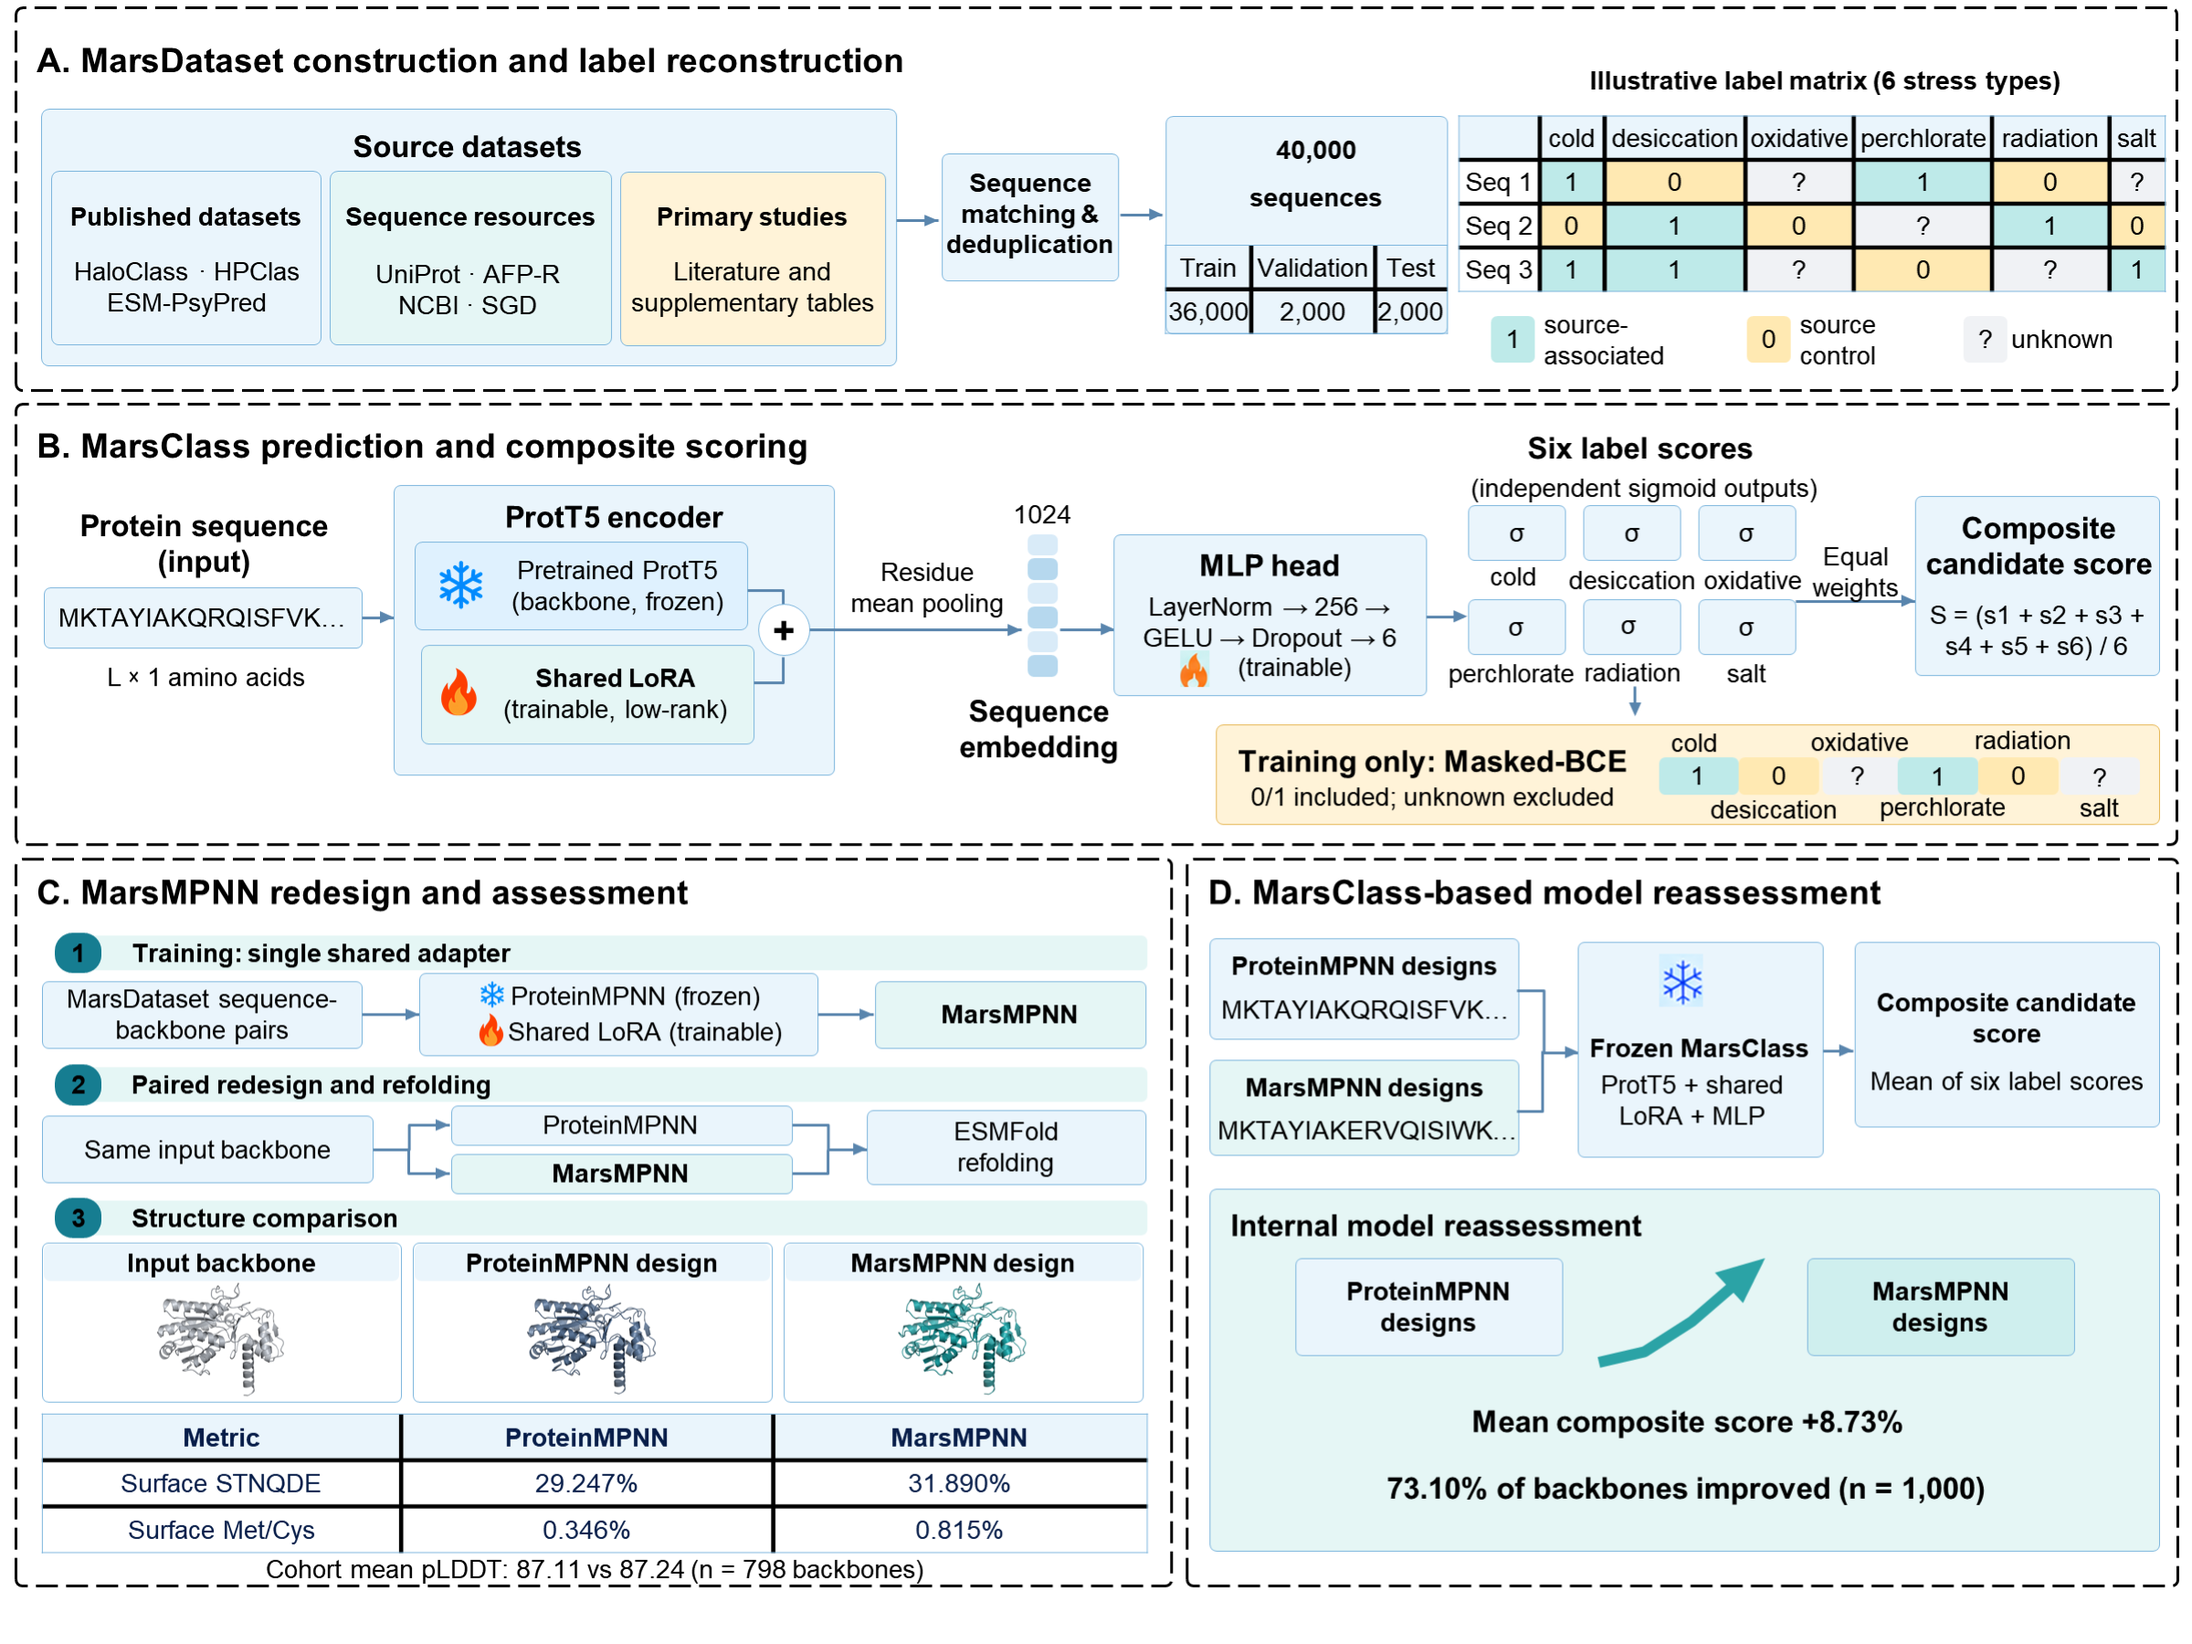
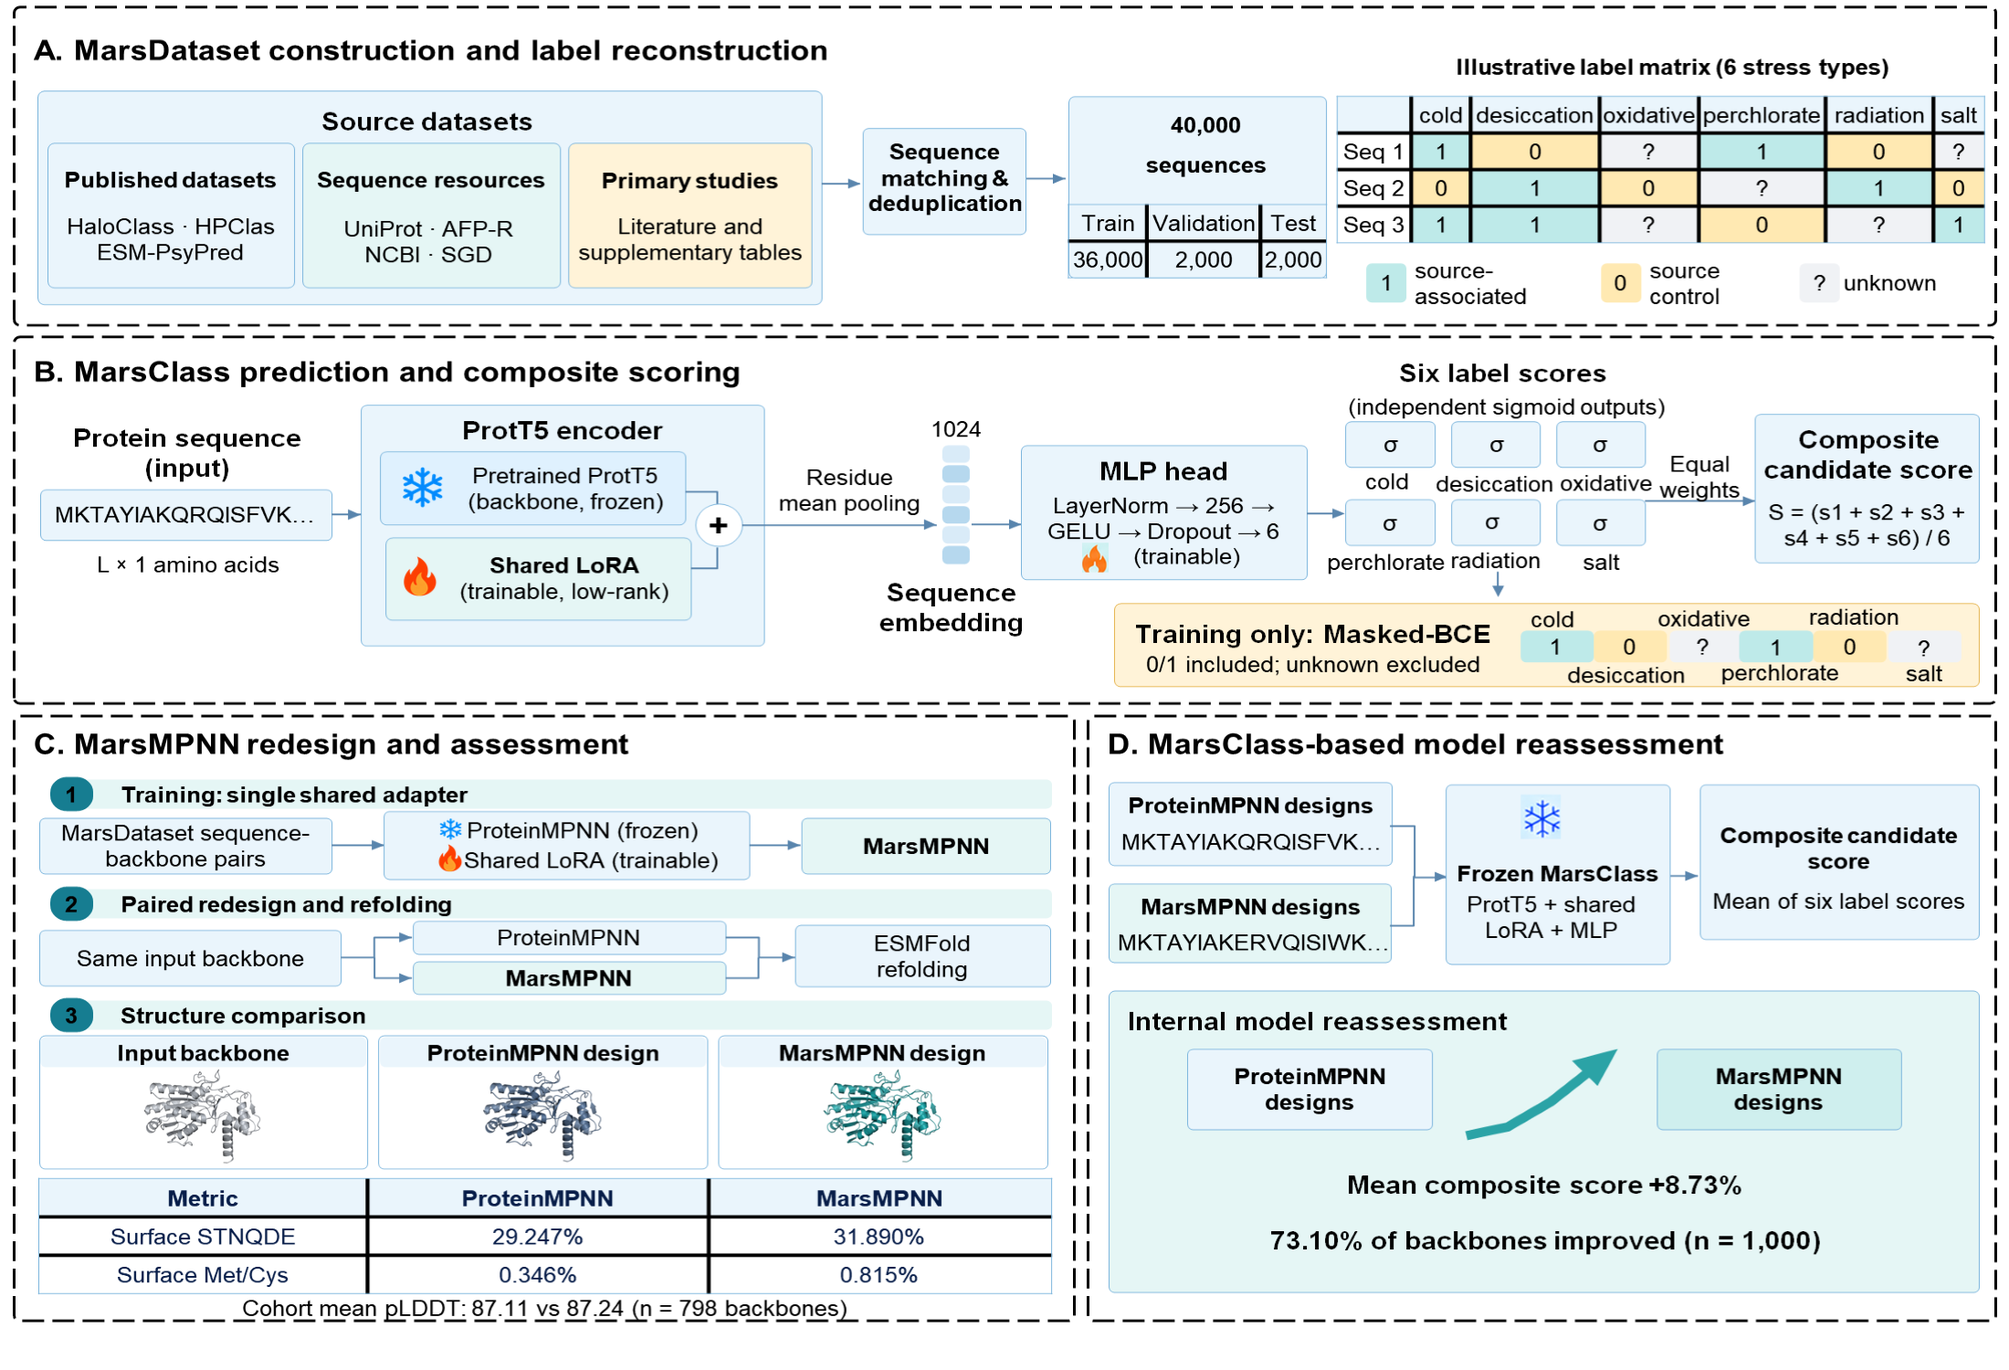
Update framework figure and source holdout documentation

diff --git a/docs/SOURCE_HOLDOUT_PROTOCOL.md b/docs/SOURCE_HOLDOUT_PROTOCOL.md
@@ -1,6 +1,6 @@
 # Scientific-source holdout protocol
 
-This protocol is an additional generalization test. It does not replace or modify the fixed 36k/2k/2k split.
+This protocol is an additional generalization test. It does not replace or modify the fixed 36k/2k/2k split. It is a derived evaluation protocol, not a claim that every registered source already has a completed model result.
 
 Create one derived fold at a time without editing the canonical split files:
 
@@ -11,6 +11,13 @@ python scripts/build_source_holdout.py \
 ```
 
 The command writes filtered training and validation tables, an expanded challenge table, row-level exclusion reasons, and a hash-bearing manifest. The original non-challenge test rows are not added to training or validation.
+
+The command is deliberately source-ID driven. A source ID must be present in
+`source_registry.csv` and in the sidecar's `scientific_source_ids` field; a
+missing source ID is an error rather than an empty fold. The script expands the
+held-out source to touching ID50 clusters and relationship components before
+writing the derived fold, so source leakage is handled by the same exclusion
+unit used in the manuscript.
 
 ## Unit of exclusion
 
@@ -28,7 +35,7 @@ Retrain the selected shared ProtT5-LoRA + Masked-BCE configuration from the same
 - Bootstrap by relationship component or ID50 cluster, not by repeated label cells.
 - Compare with the length/amino-acid-composition baseline and homology transfer.
 
-## Feasible first folds
+## Feasible first folds and current status
 
 - cold: `ISS_CO_ESMPSYPRED` gives 309 positives, 1,615 zeros, and 12 unknown cells after group expansion; `ISS_CO_AAC` gives 243/1,149/6. Both support binary source-holdout evaluation.
 - desiccation: `DE003` gives 2,492 positives and no observed zero. Use positive recall or retrieval, not AUROC/MCC.
@@ -38,4 +45,8 @@ Retrain the selected shared ProtT5-LoRA + Masked-BCE configuration from the same
 
 Perchlorate currently lacks a sufficiently independent second large source; a source-holdout result for that task should be marked not evaluable until another source is added.
 
-The counts above were generated from the frozen 40,000-row release with `--report-only`; see `source_holdout_candidate_counts.csv`. They are fold sizes, not completed model results.
+The counts above were generated from the frozen 40,000-row release with
+`--report-only`; see `source_holdout_candidate_counts.csv`. They are fold sizes,
+not completed model results. Completed model metrics and one-class limitations
+are tracked separately in `SOURCE_HOLDOUT_RESULTS_STATUS.md` so that a
+candidate-count report cannot be mistaken for a trained holdout result.

diff --git a/docs/SOURCE_HOLDOUT_RESULTS_STATUS.md b/docs/SOURCE_HOLDOUT_RESULTS_STATUS.md
@@ -1,0 +1,39 @@
+# Source-holdout evaluation status
+
+This file separates the reproducible holdout protocol from completed results.
+The canonical 36,000/2,000/2,000 split is unchanged. Every derived source
+fold must expand exclusions to registered ID50 clusters and relationship
+components before model fitting.
+
+## Completed folds reported in MarsPro
+
+The manuscript reports four predeclared, single-seed source folds:
+
+| Fold | Task | Known-label sequences | AP | Prevalence | AUROC | Interpretation |
+|---|---|---:|---:|---:|---:|---|
+| AAC-cold | cold | 1,392 | 0.327 | 0.175 | 0.691 | ranking above prevalence; threshold transfer is limited |
+| ESM-PsyPred-cold | cold | 1,924 | 0.198 | 0.161 | 0.657 | ranking above prevalence; threshold transfer is limited |
+| AOP2020-oxidative | oxidative | 1,566 | 0.226 | 0.108 | 0.736 | ranking above prevalence; threshold transfer is limited |
+| HaloClass-salt | salt | 4,095 | 0.903 | 0.437 | 0.946 | ranking above prevalence; threshold transfer is limited |
+
+These values are model results, not report-only candidate counts. Unknown
+sequence-task cells are excluded from the metrics, and bootstrap units are
+relationship components or ID50 clusters rather than repeated label cells.
+
+## Not completed as binary source folds
+
+- Desiccation sources `DE003` and radiation source `RA006` have no observed
+  source-comparator zero in the current expanded pools. They support positive
+  recall or retrieval analyses, not AUROC/MCC claims.
+- `OX002` is similarly dominated by positive labels and is a positive-recall
+  stress test rather than a balanced binary source fold.
+- Perchlorate has no sufficiently independent second large source in the
+  current registry; a source-holdout binary result is therefore not evaluable
+  until another independent source is added.
+
+## Reproduction
+
+Use `scripts/build_source_holdout.py` with one registered source ID and a new
+derived output directory. Use `--report-only` only for fold-size inspection.
+Do not edit the canonical split files and do not treat one-class folds as
+binary classification results.

diff --git a/README.md b/README.md
@@ -52,6 +52,8 @@ consistency. They do not constitute experimental proof of stress tolerance.
   locked-test evaluation, and ablations
 - `stage2_design/`: structure index, MarsMPNN adapter, matched-seed results, and
   fixed-test redesign challenge
+- `assets/figure_editable/`: author-provided editable figure projects used to
+  regenerate the manuscript figures
 - `docs/`: label semantics, claim boundaries, protocols, and reproducibility
   notes
 - `scripts/`: release verification and source-holdout utilities
@@ -74,7 +76,13 @@ results are provided under CC BY 4.0. Protein sequences and third-party source
 content retain their upstream terms; see `DATA_LICENSE.md` and
 `stage1_prediction/data/provenance/source_inventory_40k.csv`.
 
-This repository is public. Sequence redistribution rights remain unverified for
-11 of the 18 registered scientific sources. Users must consult
+The code, author-created metadata, protocols, and derived results are public.
+Sequence redistribution rights remain unverified for 11 of the 18 registered
+scientific sources, so this repository is not a blanket redistribution grant.
+Users must consult
 `stage1_prediction/data/provenance/source_inventory_40k.csv` and the upstream
-terms before redistributing source-derived sequence content.
+terms before redistributing source-derived sequence content. The source-holdout
+protocol and its task-level evaluability status are documented in
+`docs/SOURCE_HOLDOUT_PROTOCOL.md` and
+`docs/SOURCE_HOLDOUT_RESULTS_STATUS.md`; report-only fold counts are not model
+results.
